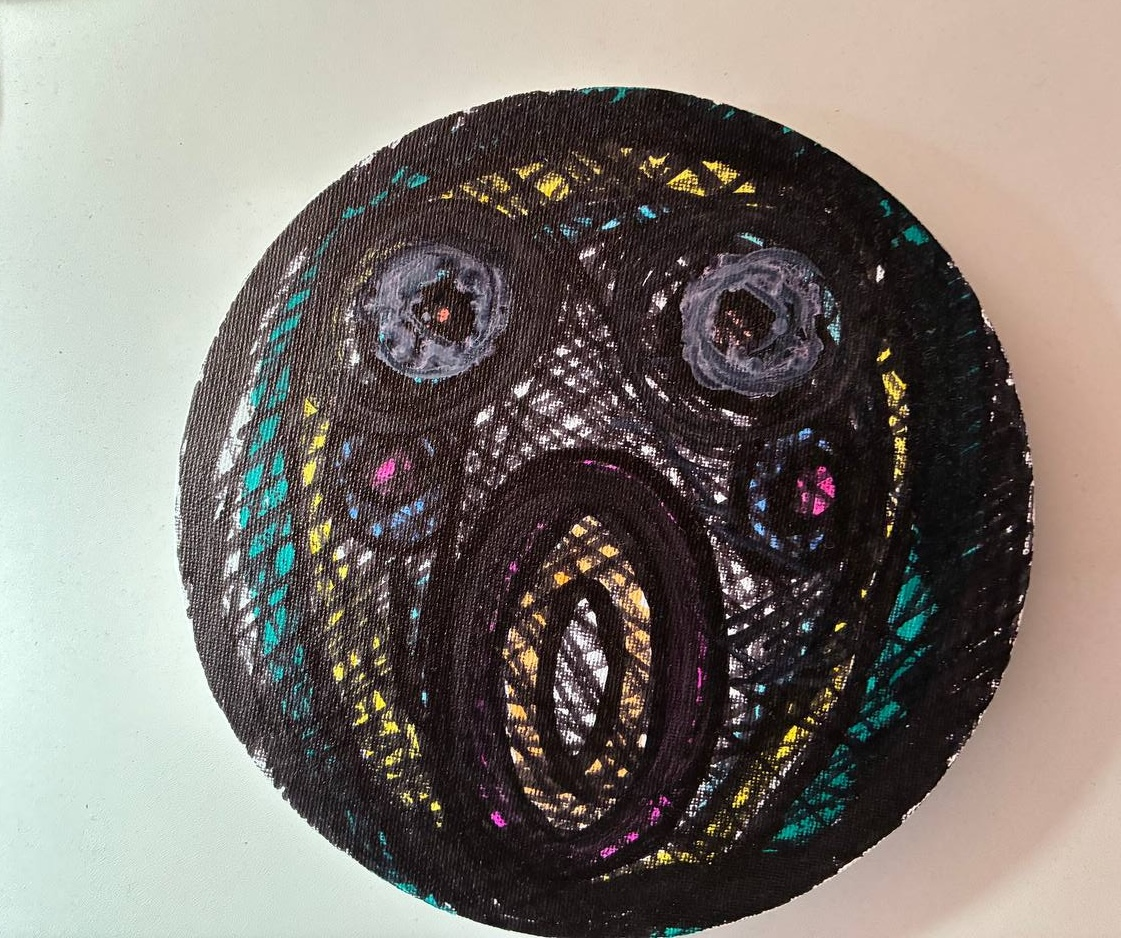
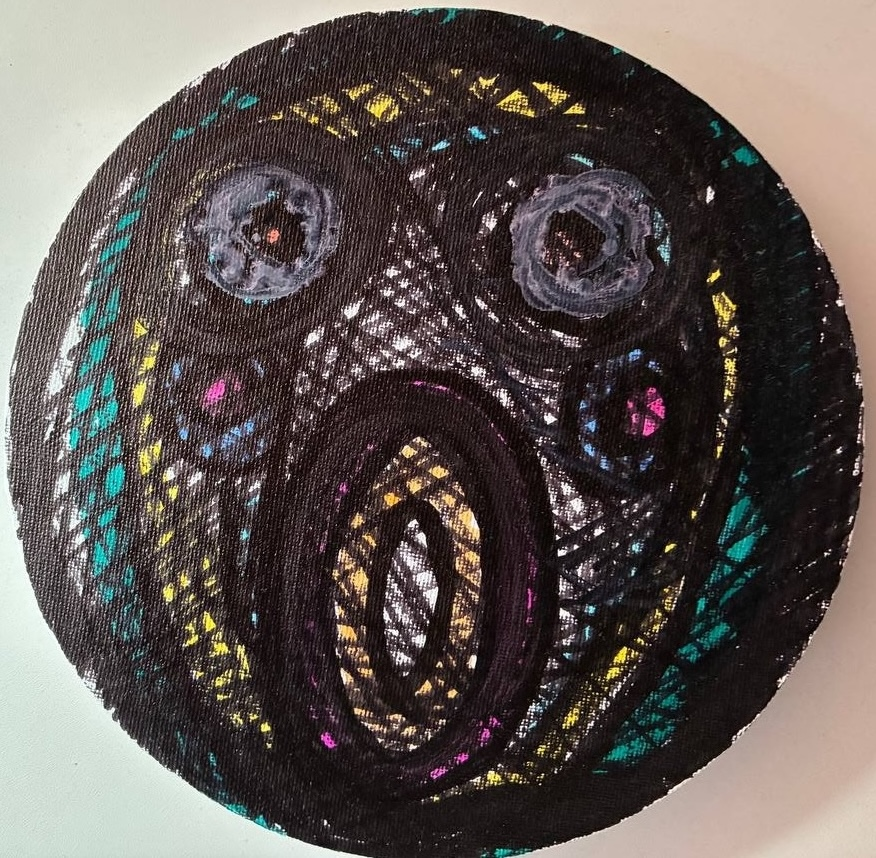
123

diff --git a/_works/fas-006.md b/_works/fas-006.md
@@ -1,0 +1,11 @@
+---
+id: fas-006
+title: Фас 006
+year: 2026
+size: диаметр 40 см
+materials: Шерсть, синтепон
+image: fas-006
+detail_image: fas-006-detail
+---
+
+Круглая подушка с отверстиями.